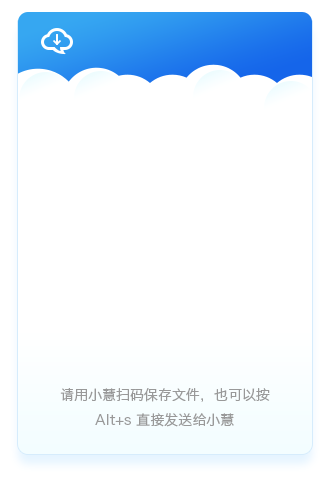
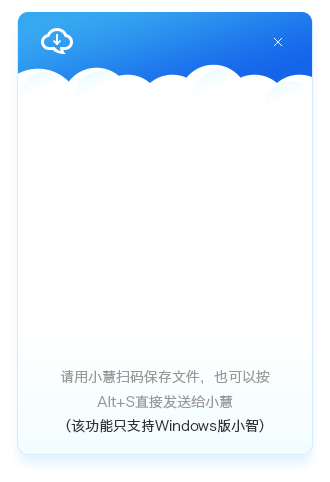
update BG picture

Changed region(s): [[0.1818, 0.7469, 0.8182, 0.9025]]

diff --git a/Win32C++Lesson9/Win32Lesson9/Win32Lesson1/Win32Lesson1.cpp b/Win32C++Lesson9/Win32Lesson9/Win32Lesson1/Win32Lesson1.cpp
@@ -251,8 +251,7 @@ BOOL InitInstance(HINSTANCE hInstance, int nCmdShow)
 	HWND hStaticWnd;
 
 	hInst = hInstance; // Store instance handle in our global variable
-	hWndmain = CreateWindowEx(WS_EX_LAYERED, szWindowClass, NULL, WS_POPUP | WS_VISIBLE | WS_MINIMIZEBOX,
-		0, 0, 330, 482, NULL, NULL, hInstance, NULL);
+	hWndmain = CreateWindowEx(WS_EX_LAYERED, szWindowClass, NULL, WS_POPUP, 0, 0, 330, 482, NULL, NULL, hInstance, NULL);
 
 	if (!hWndmain)
 	{

diff --git a/Win32C++Lesson9/Win32Lesson9/Win32Lesson1/Resource.h b/Win32C++Lesson9/Win32Lesson9/Win32Lesson1/Resource.h
@@ -27,7 +27,7 @@
 #ifdef APSTUDIO_INVOKED
 #ifndef APSTUDIO_READONLY_SYMBOLS
 #define _APS_NO_MFC                     1
-#define _APS_NEXT_RESOURCE_VALUE        140
+#define _APS_NEXT_RESOURCE_VALUE        141
 #define _APS_NEXT_COMMAND_VALUE         32771
 #define _APS_NEXT_CONTROL_VALUE         1000
 #define _APS_NEXT_SYMED_VALUE           110
